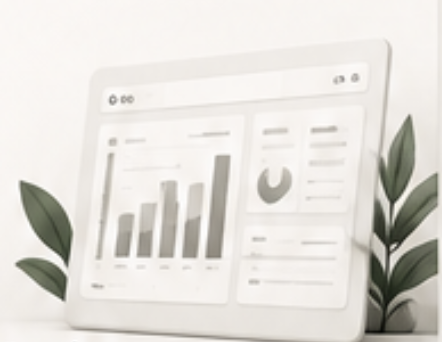
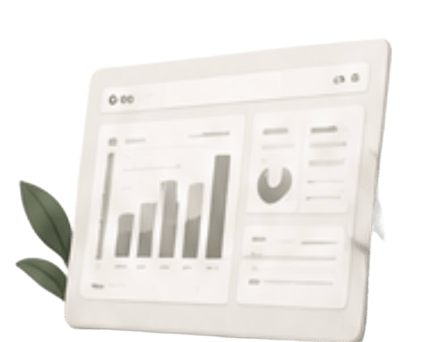
Update pricing device artwork

diff --git a/pages/landing.php b/pages/landing.php
@@ -213,7 +213,7 @@ if ($user) { header('Location: /dashboard'); exit; }
             <p class="pricing-detail-description"><?= htmlspecialchars($plan['features_ar'][0] ?? '') ?></p>
           </div>
           <div class="pricing-device">
-            <img src="/assets/landing/pricing-device.png"
+            <img src="/assets/landing/pricing-device.png?v=<?= filemtime(__DIR__.'/../assets/landing/pricing-device.png') ?>"
                  alt="لوحة تحليلات تسعيرة" data-ar-alt="لوحة تحليلات تسعيرة" data-en-alt="Tas3eerah analytics dashboard">
           </div>
         </div>
